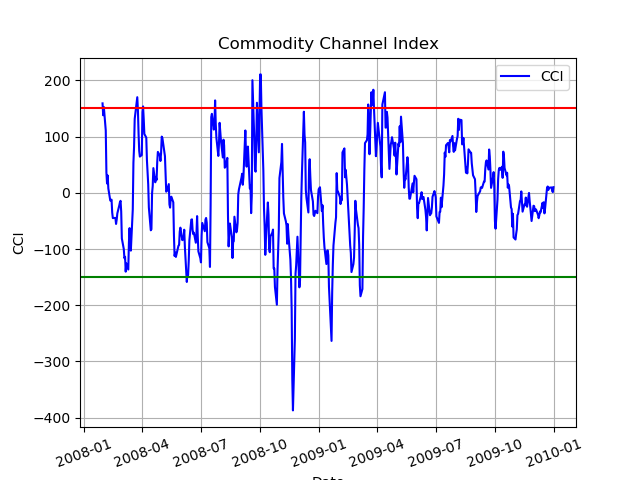
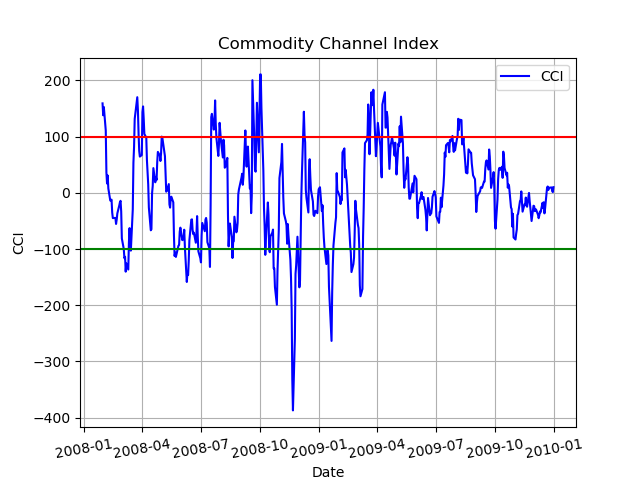
Momentum code

diff --git a/indicator_evaluation/indicators.py b/indicator_evaluation/indicators.py
@@ -218,10 +218,7 @@ def cci(sd, ed, symbol, prices_df,window=20):
     prices_df['High'] = prices_df['High'] * prices_df['adjustment_factor']
     prices_df['Low'] = prices_df['Low'] * prices_df['adjustment_factor']
     prices_df = prices_df.ffill().bfill()
-
     print("Final Prices\n", prices_df)
-
-    #prices_df = prices_df/prices_df[0]
 
     typical_price = (prices_df['High'] + prices_df['Low'] + prices_df['Adj Close']) / 3
     mean_deviation = abs(typical_price - typical_price.rolling(window).mean()).mean()
@@ -235,17 +232,36 @@ def cci(sd, ed, symbol, prices_df,window=20):
     plt.title('Commodity Channel Index')
     plt.grid()
     plt.legend()
-    plt.xticks(rotation=20)
-    plt.axhline(y=150, color='r', linestyle='-')
-    plt.axhline(y=-150, color='g', linestyle='-')
+    plt.xticks(rotation=10)
+    plt.axhline(y=100, color='r', linestyle='-')
+    plt.axhline(y=-100, color='g', linestyle='-')
     plt.savefig("CCI.png")
     plt.clf()
 
 
-def momentum():
-    # 4] Volatility
-    volatility = prices.rolling(window=7, center=False).std()
-    df_indicators['Volatility'] = volatility * 3.5
+def momentum(sd, ed, symbol, prices_df, window=20):
+    prices = prices_df[symbol]
+    prices = prices / prices[0]
+    # Empty Dataframe
+    df_indicators = pd.DataFrame(index=prices.index)
+
+    momentum = (prices / prices.shift(window)) - 1
+
+    df_indicators['Momentum'] = momentum
+
+    fig = plt.figure(figsize=(10, 5))
+    plt.plot(df_indicators['Momentum'], label="Momentum", color="blue")
+    plt.xlabel('Date')
+    plt.xticks(rotation=10)
+    plt.ylabel('Price (normalized)')
+    plt.title('Momentum')
+    plt.axhline(y=0, color='grey', linestyle='-')
+    plt.axhline(y=0.05, color='green', linestyle='-')
+    plt.axhline(y=-0.05, color='red', linestyle='-')
+    plt.grid()
+    plt.legend()
+    plt.savefig("Momentum.png")
+    plt.clf()
 
 
 def report():
@@ -261,6 +277,7 @@ def report():
     #sma(sd, ed, symbol, prices_df,window=20)
     #bb(sd, ed, symbol, prices_df,window=20)
     cci(sd, ed, symbol, prices_df, window=20)
+    momentum(sd, ed, symbol, prices_df, window=20)
 
 
 def author():
